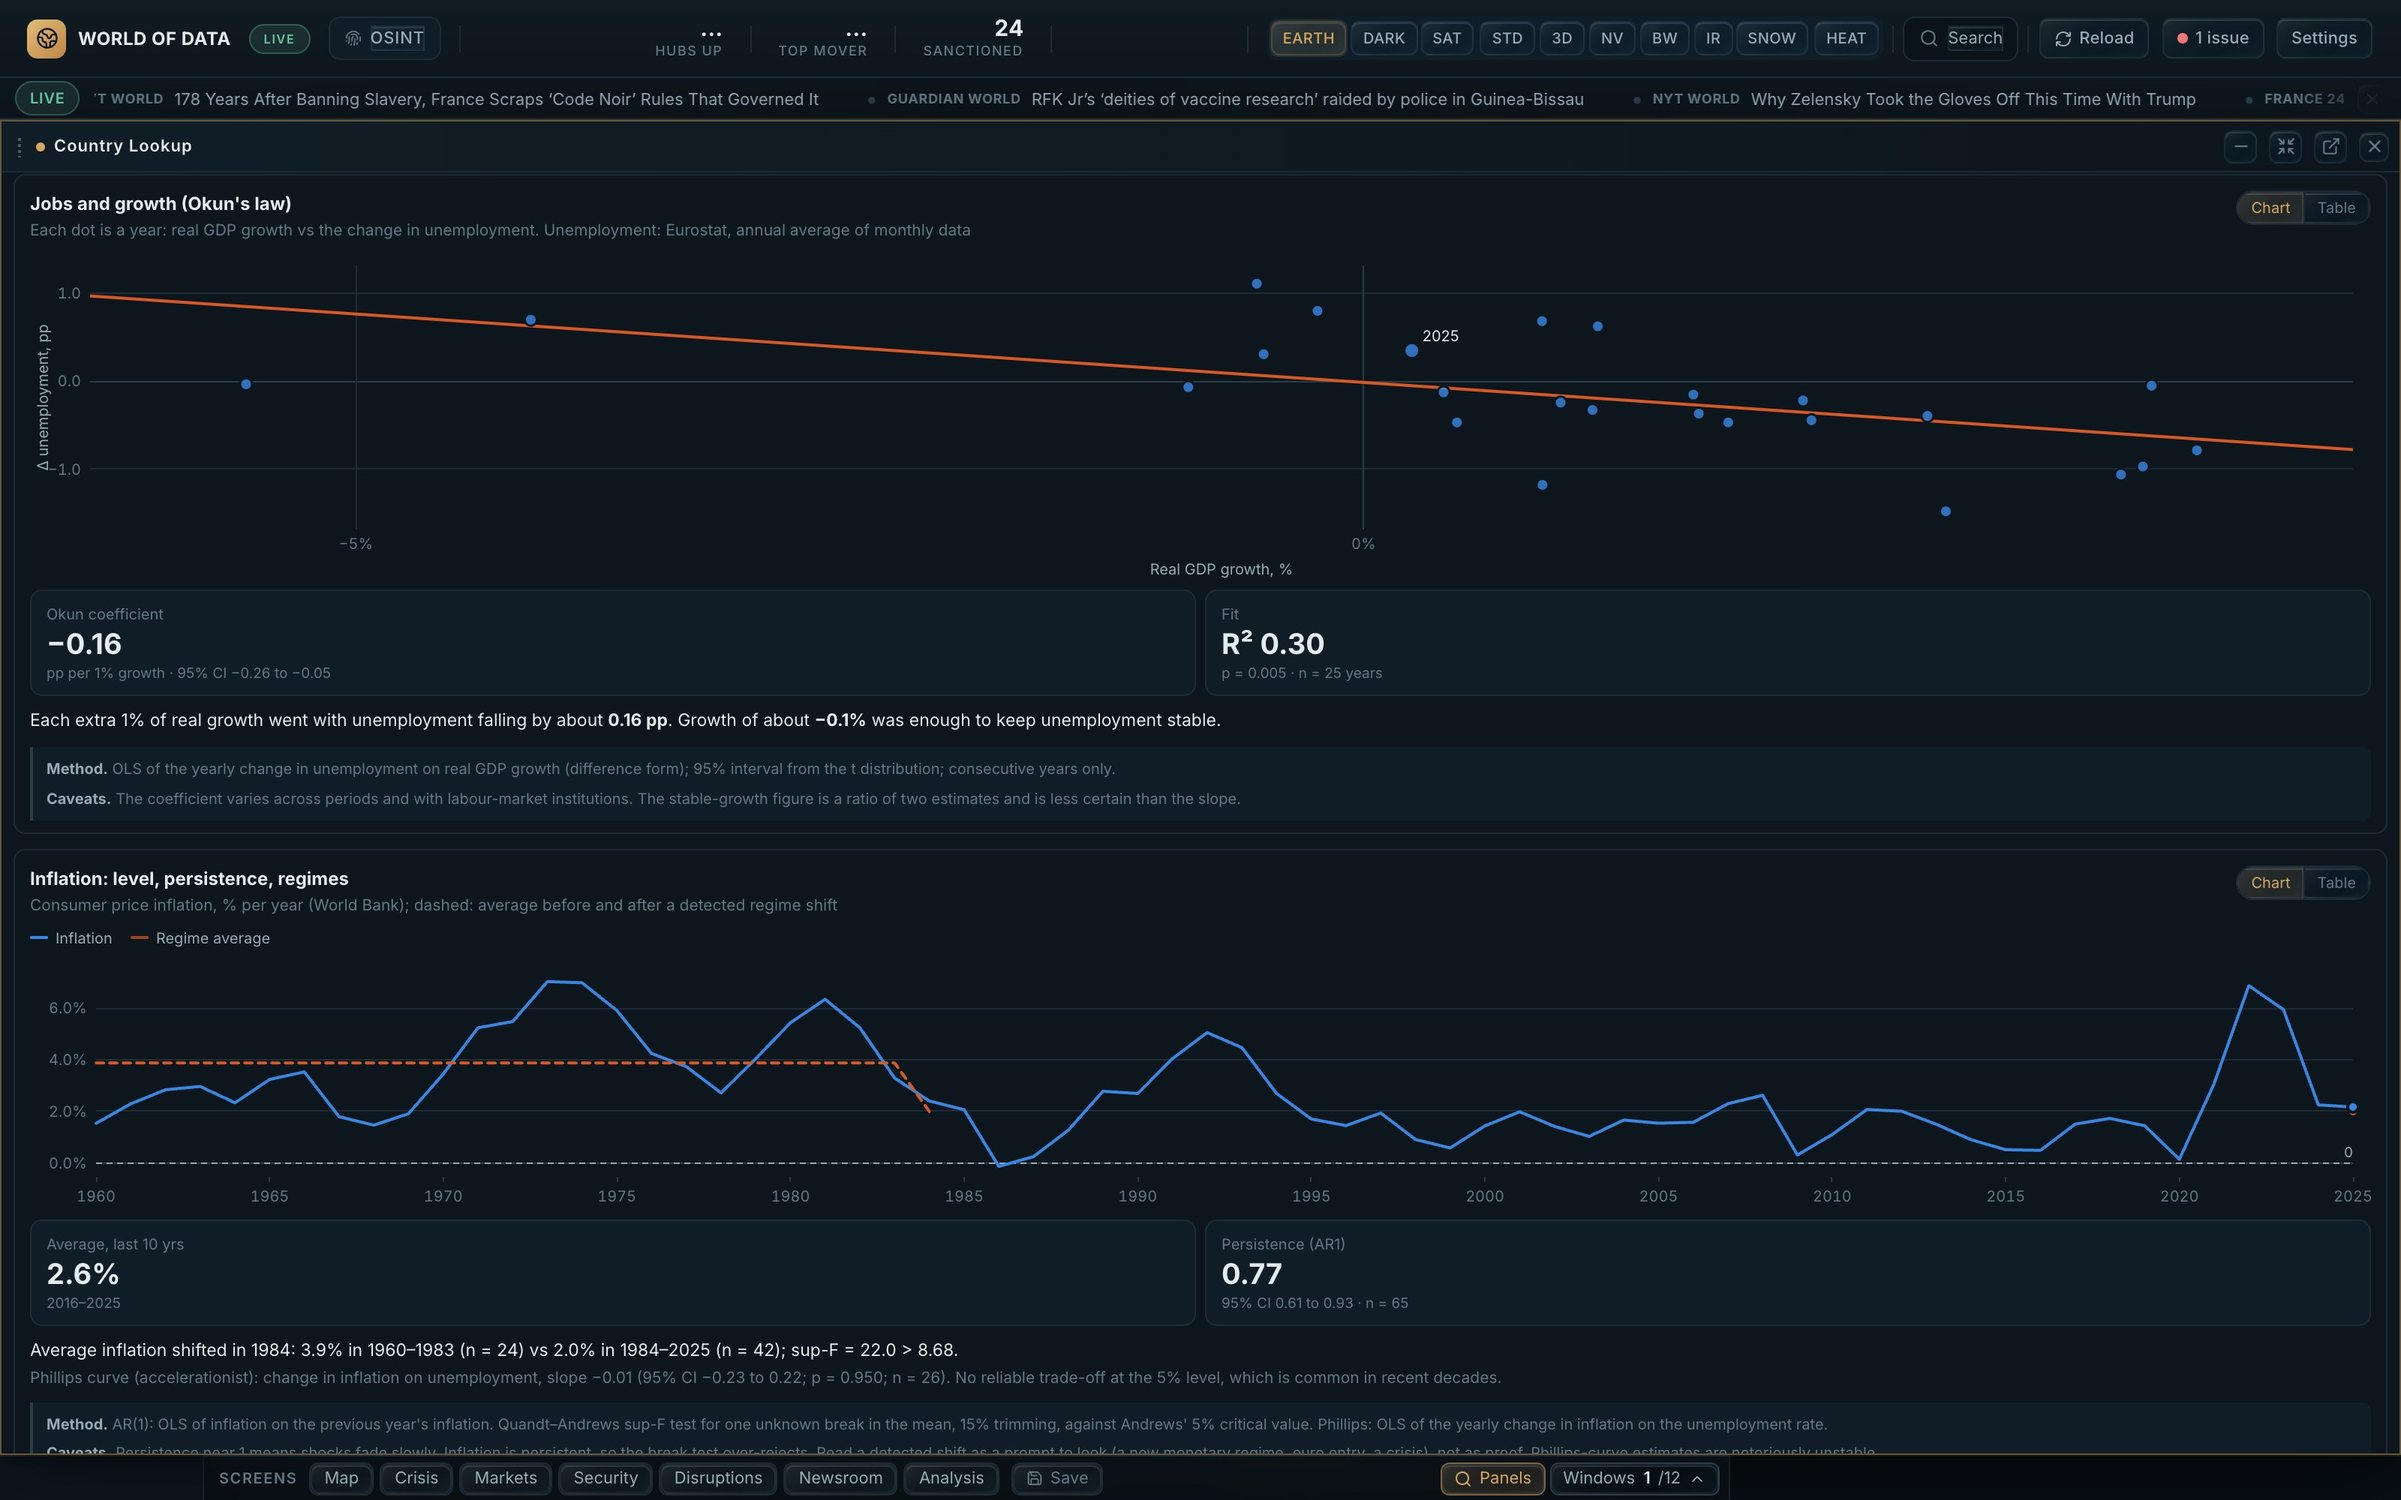
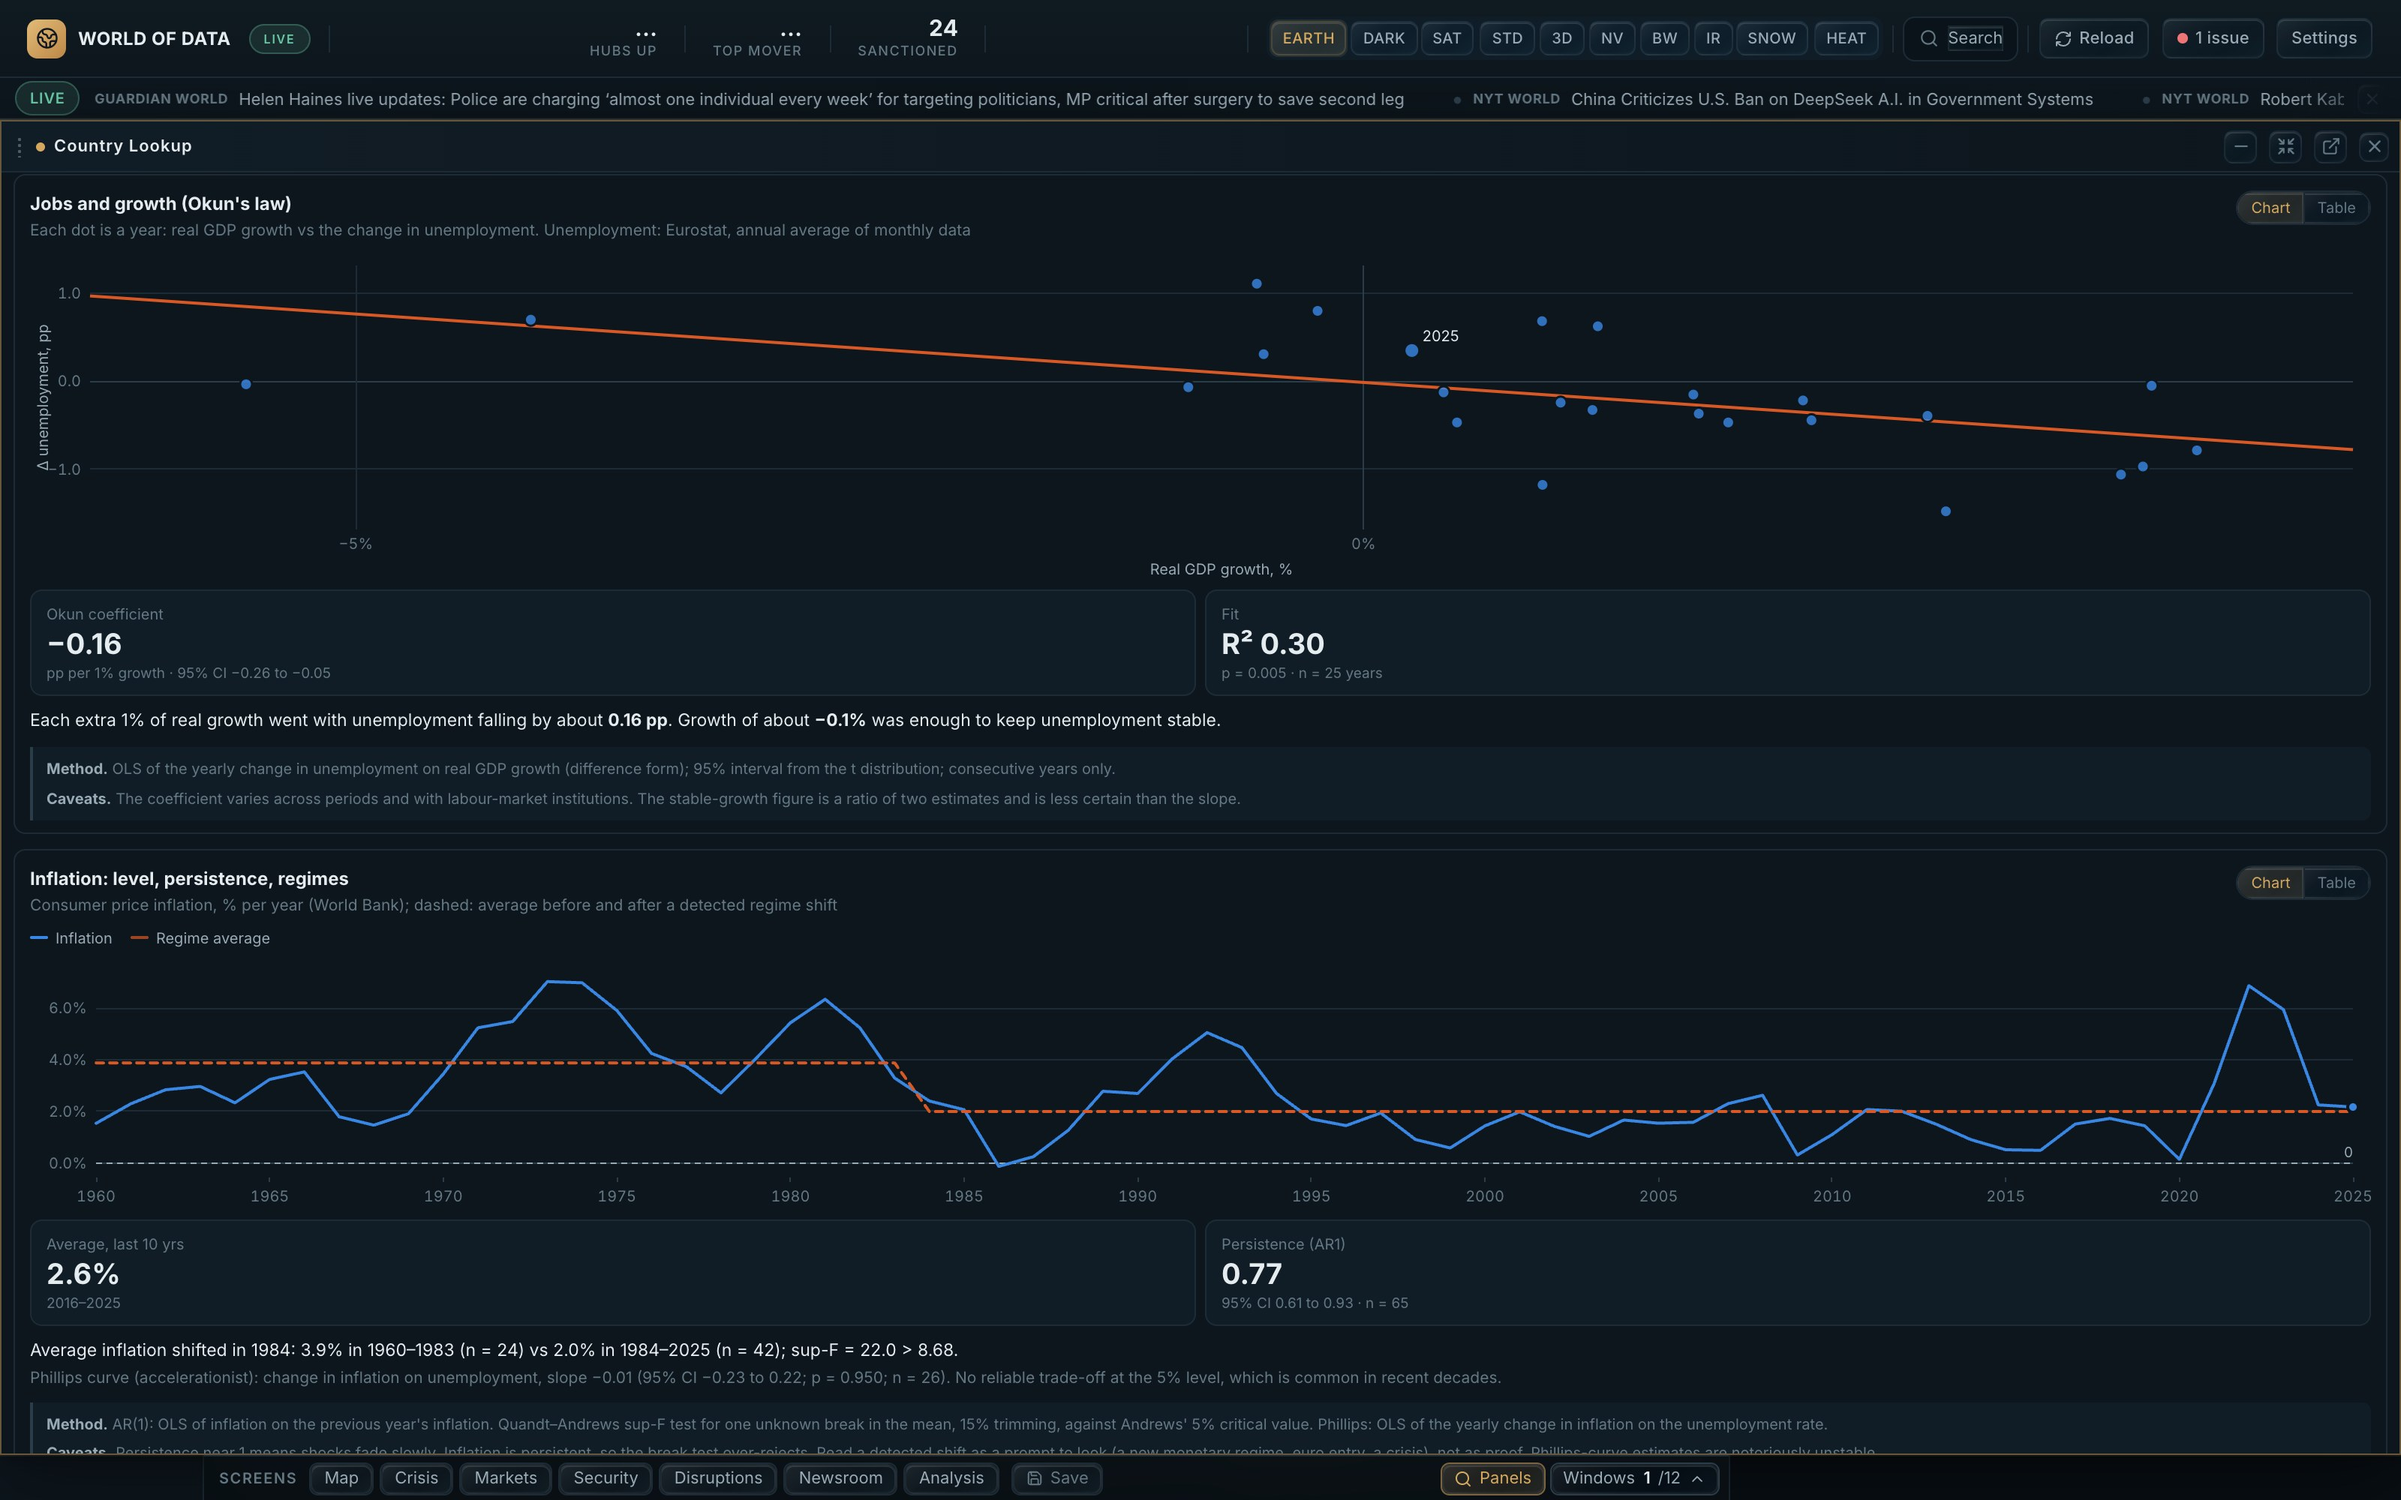
Country Lookup: regime-average line runs to the last year again
The dashed before/after line had four corner points, so its steps were e.g. 23, 1 and 41 years. LineChart
breaks a line at any step over 1.5x the median one (its missing-data rule), which dropped the whole
post-break segment: Germany's inflation chart showed 2.0% for 1984-2025 as a lone dot at 2025. The line now
has one point per year. Affects the inflation and growth charts. Screenshot retaken.

Changed region(s): [[0.0625, 0.062, 0.9688, 0.093], [0.1562, 0.0, 0.1875, 0.031]]

diff --git a/src/components/panels/countryLookup/AnalysisSection.test.ts b/src/components/panels/countryLookup/AnalysisSection.test.ts
@@ -1,0 +1,27 @@
+import { describe, it, expect } from 'vitest'
+import { regimeLine } from './AnalysisSection'
+import type { MeanBreak } from '../../../utils/econAnalysis'
+
+// Germany's CPI break as the panel showed it on 2026-10-20: 3.9% in 1960–1983, 2.0% in 1984–2025.
+const brk = (significant = true): MeanBreak => ({
+  n: 66, year: 1984, supF: 22, significant,
+  before: { from: 1960, to: 1983, mean: 3.9, n: 24 },
+  after: { from: 1984, to: 2025, mean: 2.0, n: 42 },
+})
+
+describe('regimeLine', () => {
+  it('runs to the last year: one point per year, so LineChart never reads the long regime as a data gap', () => {
+    const pts = regimeLine(brk())
+    expect(pts).toHaveLength(66)
+    expect(pts[0]).toEqual({ x: 1960, y: 3.9 })
+    expect(pts[pts.length - 1]).toEqual({ x: 2025, y: 2.0 })
+    expect(pts.every((p, i) => i === 0 || p.x - pts[i - 1].x === 1)).toBe(true)
+    expect(pts.find(p => p.x === 1983)?.y).toBe(3.9)
+    expect(pts.find(p => p.x === 1984)?.y).toBe(2.0)
+  })
+
+  it('draws nothing without a significant break', () => {
+    expect(regimeLine(brk(false))).toEqual([])
+    expect(regimeLine(null)).toEqual([])
+  })
+})

diff --git a/src/components/panels/countryLookup/AnalysisSection.tsx b/src/components/panels/countryLookup/AnalysisSection.tsx
@@ -14,10 +14,15 @@ import { Kpi, Method, fmtP, plain, pp, pct, toLine } from './shared'
 
 const THIS_YEAR = new Date().getUTCFullYear()
 
-/** Two dashed segments at the mean before and after a significant break (one line, stepping at the break). */
-function regimeLine(b: MeanBreak | null): Pt[] {
+/**
+ * Two dashed segments at the mean before and after a significant break (one line, stepping at the break). One point per
+ * year: LineChart breaks a line at any step much longer than its typical one (a missing year), so a four-corner line
+ * lost its whole second segment whenever the regimes differed in length.
+ */
+export function regimeLine(b: MeanBreak | null): Pt[] {
   if (!b?.significant) return []
-  return [{ x: b.before.from, y: b.before.mean }, { x: b.before.to, y: b.before.mean }, { x: b.after.from, y: b.after.mean }, { x: b.after.to, y: b.after.mean }]
+  const flat = (r: MeanBreak['before']) => Array.from({ length: r.to - r.from + 1 }, (_, i) => ({ x: r.from + i, y: r.mean }))
+  return [...flat(b.before), ...flat(b.after)]
 }
 
 function breakSentence(b: MeanBreak | null, what: string, unit = '%'): string {
